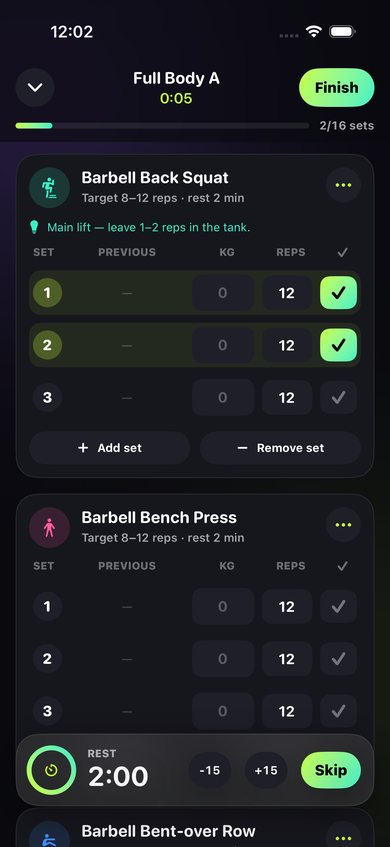
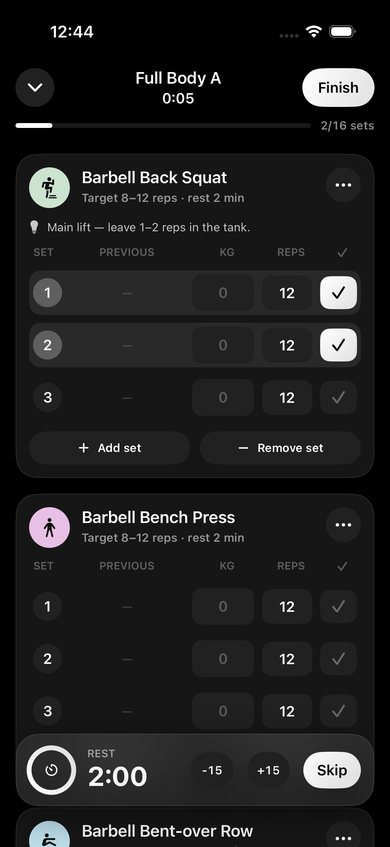
Refresh README screenshots and describe the monochrome design
Claude-Session: https://claude.ai/code/session_01DXAnGdzV3pDVNGzmUUwrXc

diff --git a/README.md b/README.md
@@ -3,19 +3,22 @@
 ForgeFit is a native SwiftUI iPhone app that builds your workout plan, tracks every set, and has an AI coach (powered by Anthropic's Claude) you can talk to about your struggles — it rewrites your plan to fit.
 
 <p align="center">
-  <img src="docs/screenshots/home.jpg" width="200">
-  <img src="docs/screenshots/workout.jpg" width="200">
-  <img src="docs/screenshots/coach.jpg" width="200">
-  <img src="docs/screenshots/charts.jpg" width="200">
+  <img src="docs/screenshots/welcome.jpg" width="200">
+  <img src="docs/screenshots/gender.jpg" width="200">
+  <img src="docs/screenshots/height.jpg" width="200">
+  <img src="docs/screenshots/sports.jpg" width="200">
 </p>
 <p align="center">
-  <img src="docs/screenshots/equipment.jpg" width="200">
-  <img src="docs/screenshots/plan.jpg" width="200">
-  <img src="docs/screenshots/progress.jpg" width="200">
-  <img src="docs/screenshots/history.jpg" width="200">
+  <img src="docs/screenshots/home.jpg" width="200">
+  <img src="docs/screenshots/plans.jpg" width="200">
+  <img src="docs/screenshots/workout.jpg" width="200">
+  <img src="docs/screenshots/profile.jpg" width="200">
 </p>
 
 ## Features
+
+**Onboarding**
+- Name, gender, age, height and weight (number wheels, kg/lb), main goal, experience, favorite sports, schedule, equipment and injuries. The answers feed the plan generator and the AI coach.
 
 **Plans**
 - **AI plan generator**: pick your goal, experience, days per week, session length, the **machines & equipment you have**, and optional focus muscles or notes (e.g. "bad left knee"). Claude designs a full weekly program with sets, rep ranges, rest times and cues.
@@ -40,7 +43,9 @@ ForgeFit is a native SwiftUI iPhone app that builds your workout plan, tracks ev
 - Replies stream in live, and you can stop a reply partway.
 
 **Design**
-- A dark, modern look with neon-lime and violet gradients, rounded type, glass cards and haptics.
+- Monochrome "dark mode done right": pure black canvas, graphite cards, white actions and soft pastel program cards with black tags and italic titles.
+- Photo welcome screen, onboarding questions with number wheels and outlined chips, and a floating capsule tab bar.
+- Photos by mehdi pezhvak, Victor Freitas and Marvin Cors on [Unsplash](https://unsplash.com) (Unsplash License), converted to black and white.
 
 ## Get the IPA
 
